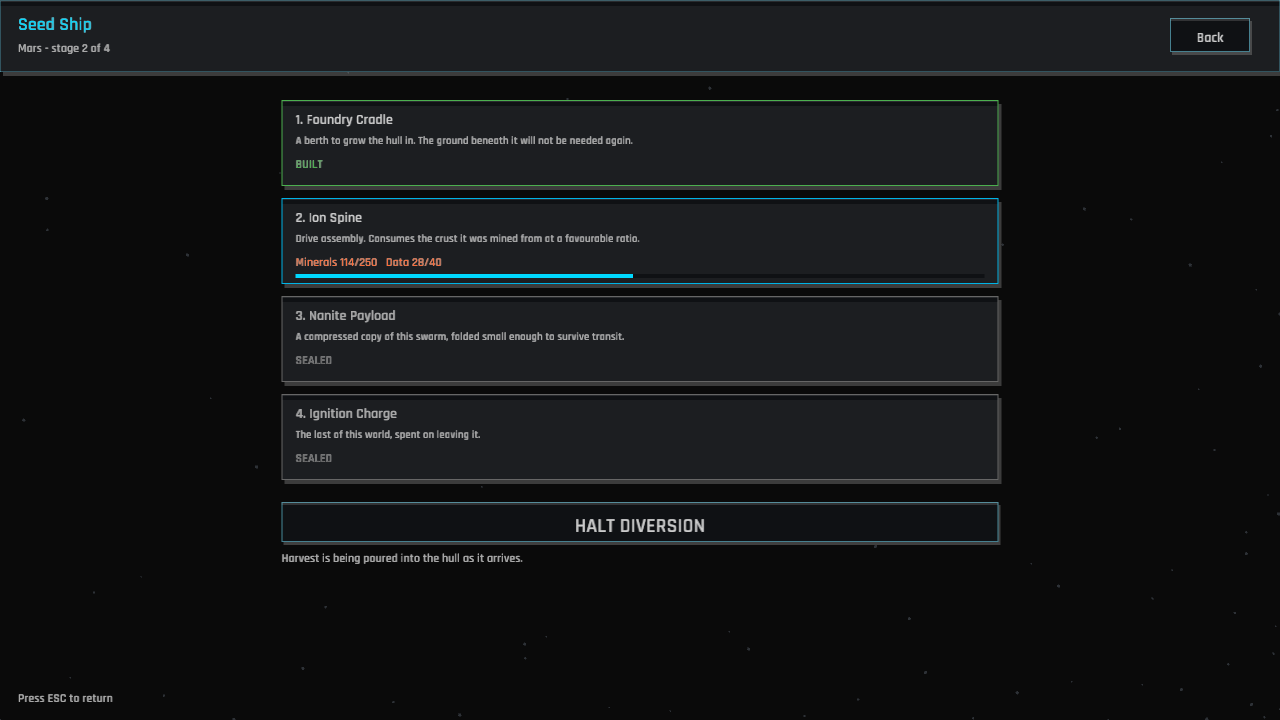
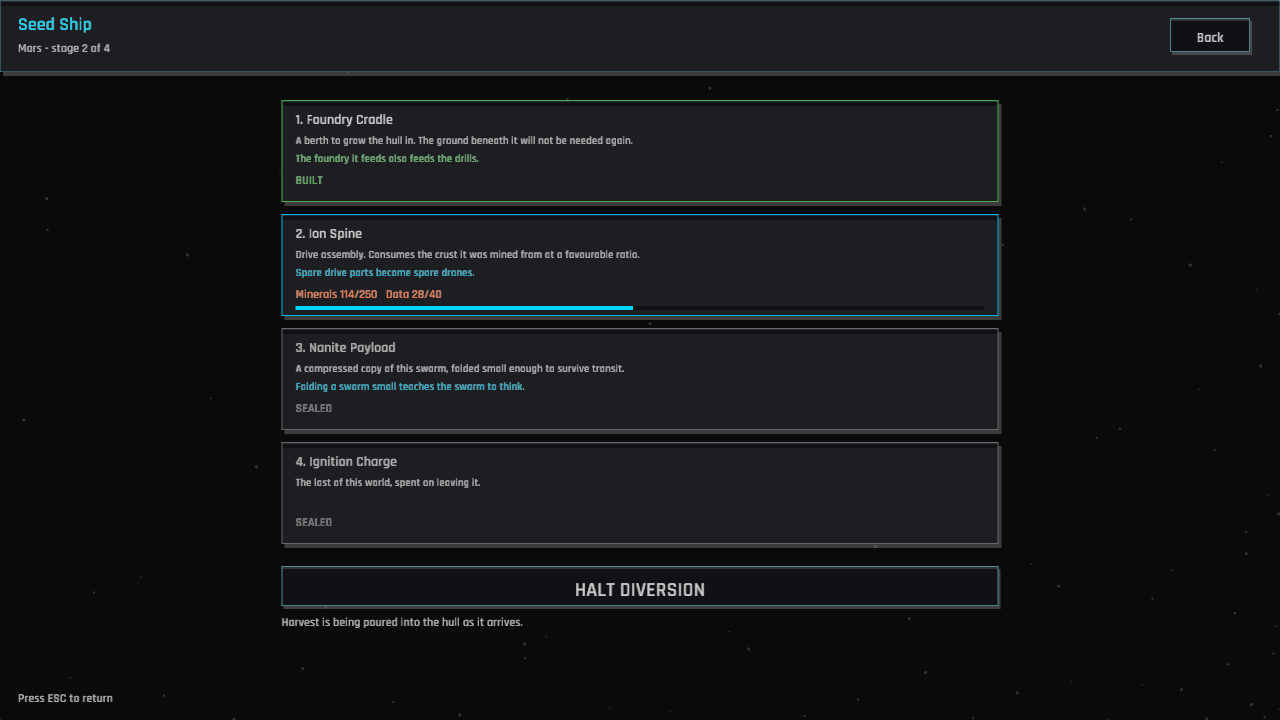
A half-built ship is worth having (Seed Ship stage boons)
Four stages, each one a large bill, and nothing came back until the last one
was paid. There was no reason to want stage three except that stage four was
behind it, which makes the megastructure a progress bar rather than a decision.

A standing stage now works for the world it stands on. The Foundry Cradle feeds
the drills it was built from, the Ion Spine turns spare drive parts into a
second drone per drill, the Nanite Payload sharpens data generation. The
Ignition Charge gives nothing, because all it does is leave.

They are declared in `seed_ship.json` in the same form research uses, so the
whole thing is `Stats::add_declared` plus three lines of JSON rather than a new
system - and an unreadable one is a startup failure, same as a tech's.

The advantages leave with the ship. Launching resets the yard, so the next
world earns them again from scratch. That is the honest reading of what a Seed
Ship is: everything the swarm built to leave, leaving.

The ship screen says what each stage gives rather than only what it costs,
which is the difference between a bill and a choice.

Still missing, and in TODO.md: nothing on the map shows a ship being built. The
megastructure exists entirely on its own screen.

Changed region(s): [[0.2188, 0.2139, 0.7812, 0.8861]]

diff --git a/src/state/seed_ship.rs b/src/state/seed_ship.rs
@@ -54,6 +54,16 @@ impl SeedShip {
         Self::stages().get(self.stage)
     }
 
+    /// The stages already built and still on the pad.
+    ///
+    /// They stop counting the moment the ship launches, which is the point:
+    /// the yard's advantages leave with it, and the next ship has to earn them
+    /// again.
+    pub fn standing_stages(&self) -> &'static [SeedShipStageDef] {
+        let built = self.stage.min(Self::stages().len());
+        &Self::stages()[..built]
+    }
+
     /// Every stage is paid for and the ship is ready to leave.
     pub fn is_complete(&self) -> bool {
         let count = self.stage_count();
@@ -176,13 +186,30 @@ impl PlanetState {
             return;
         }
 
+        // A finished stage changes what this world can do, so the stat sheet
+        // has to be rebuilt before anything reads it again.
+        self.refresh_stats();
+
         if self.seed_ship.is_complete() {
             self.notifications
                 .success("Seed Ship complete. This world is spent.");
             self.announce_achievement("seed_ship");
-        } else if let Some(stage) = self.seed_ship.stage() {
-            self.notifications
-                .info(format!("Seed Ship: {} under way", stage.name));
+            return;
+        }
+
+        // Report the boon of the stage just finished, not the next one's name:
+        // what the player gained is the interesting half.
+        let built = self.seed_ship.standing_stages();
+        match built.last().filter(|stage| !stage.boon.is_empty()) {
+            Some(stage) => self
+                .notifications
+                .success(format!("{} standing. {}", stage.name, stage.boon)),
+            None => {
+                if let Some(stage) = self.seed_ship.stage() {
+                    self.notifications
+                        .info(format!("Seed Ship: {} under way", stage.name));
+                }
+            }
         }
     }
 
@@ -389,6 +416,64 @@ mod tests {
             ship.absorb(&mut resources, intake(), 10_000.0);
         }
         assert!(ship.is_complete());
+    }
+
+    #[test]
+    fn the_shipped_stages_declare_only_modifiers_the_game_can_read() {
+        let stages = &crate::data::game_data().seed_ship.stages;
+        let with_boons = stages.iter().filter(|s| !s.modifiers.is_empty()).count();
+        assert!(with_boons >= 3, "the ship is still all cost and no payoff");
+        for stage in stages {
+            for modifier in &stage.modifiers {
+                assert!(
+                    crate::engine::parse_modifier(modifier).is_ok(),
+                    "stage {} declares an unreadable modifier",
+                    stage.id
+                );
+            }
+            if !stage.modifiers.is_empty() {
+                assert!(!stage.boon.is_empty(), "stage {} does not say", stage.id);
+            }
+        }
+    }
+
+    #[test]
+    fn a_standing_stage_works_for_the_world_it_stands_on() {
+        let mut state = state();
+        let before = state.stats.multiplier(crate::engine::StatId::DrillOutput);
+
+        // Finish the first stage, which pays the drills back.
+        state.toggle_seed_ship_commitment();
+        while state.seed_ship.stage_index() == 0 {
+            state.update_seed_ship(1.0);
+        }
+
+        assert_eq!(state.seed_ship.standing_stages().len(), 1);
+        assert!(
+            state.stats.multiplier(crate::engine::StatId::DrillOutput) > before,
+            "the finished stage did nothing"
+        );
+    }
+
+    #[test]
+    fn the_yards_advantages_leave_with_the_ship() {
+        let mut state = state();
+        state.toggle_seed_ship_commitment();
+        for _ in 0..2_000 {
+            state.update_seed_ship(1.0);
+        }
+        assert!(state.seed_ship.is_complete());
+        let boosted = state.stats.multiplier(crate::engine::StatId::DrillOutput);
+        assert!(boosted > 1.0);
+
+        state.seed_ship.mark_launched();
+        state.refresh_stats();
+
+        assert!(state.seed_ship.standing_stages().is_empty());
+        assert!(
+            state.stats.multiplier(crate::engine::StatId::DrillOutput) < boosted,
+            "the ship left but its yard did not"
+        );
     }
 
     #[test]

diff --git a/src/data/defs.rs b/src/data/defs.rs
@@ -138,6 +138,13 @@ pub struct SeedShipStageDef {
     pub name: String,
     pub description: String,
     pub cost: SeedShipCost,
+    /// One line on what standing this stage up does for the world it is being
+    /// built on. Empty on the last stage, which does nothing but leave.
+    #[serde(default)]
+    pub boon: String,
+    /// What that boon actually is, in the same declared form research uses.
+    #[serde(default)]
+    pub modifiers: Vec<ModifierDef>,
 }
 
 #[derive(Debug, Clone, Deserialize)]
@@ -326,11 +333,17 @@ impl GameData {
                 }
             }
         }
-
         let seed_ship: SeedShipData = load_json(seed_ship_json).unwrap_or_else(|_| SeedShipData {
             intake_per_second: SeedShipCost::default(),
             stages: vec![],
         });
+        for stage in &seed_ship.stages {
+            for modifier in &stage.modifiers {
+                if let Err(problem) = crate::engine::parse_modifier(modifier) {
+                    panic!("seed ship stage \"{}\": {}", stage.id, problem);
+                }
+            }
+        }
 
         let planet_file: PlanetDataFile =
             load_json(planets_json).unwrap_or_else(|_| PlanetDataFile { planets: vec![] });

diff --git a/src/screens/seed_ship_view.rs b/src/screens/seed_ship_view.rs
@@ -7,7 +7,7 @@ use macroquad_toolkit::math::pulse01;
 use macroquad_toolkit::ui::draw_ui_text;
 
 const HEADER_HEIGHT: f32 = 72.0;
-const STAGE_HEIGHT: f32 = 86.0;
+const STAGE_HEIGHT: f32 = 102.0;
 const STAGE_GAP: f32 = 12.0;
 
 /// Actions from the Seed Ship view
@@ -153,6 +153,21 @@ fn draw_stage(
         11.0,
         Colors::TEXT_DIM,
     );
+    // What standing it up does for this world. A stage that only costs is a
+    // stage with no reason to be reached before the next one.
+    if !stage.boon.is_empty() {
+        draw_ui_text(
+            &stage.boon,
+            x + 14.0,
+            y + 62.0,
+            11.0,
+            if built {
+                Colors::SUCCESS
+            } else {
+                Colors::PRIMARY_SOFT
+            },
+        );
+    }
 
     let status = if built {
         "BUILT".to_string()
@@ -168,7 +183,7 @@ fn draw_stage(
     } else {
         Colors::SECONDARY
     };
-    draw_ui_text(&status, x + 14.0, y + 68.0, 12.0, status_color);
+    draw_ui_text(&status, x + 14.0, y + 84.0, 12.0, status_color);
 
     if active {
         let bar_w = width - 28.0;

diff --git a/src/state/game_state.rs b/src/state/game_state.rs
@@ -331,7 +331,13 @@ impl PlanetState {
     /// values that live outside it into place. Call this after anything that
     /// changes `research.unlocked_techs`.
     pub fn refresh_stats(&mut self) {
-        self.stats = Stats::from_unlocked(&self.research.unlocked_techs);
+        let mut stats = Stats::from_unlocked(&self.research.unlocked_techs);
+        // A Seed Ship stage that is standing works for the world it stands on,
+        // until the ship takes it away.
+        for stage in self.seed_ship.standing_stages() {
+            stats.add_declared(&stage.modifiers);
+        }
+        self.stats = stats;
 
         let capacity = self.stats.apply(
             crate::engine::StatId::DroneCapacity,

diff --git a/src/engine/modifiers.rs b/src/engine/modifiers.rs
@@ -138,6 +138,17 @@ impl Stats {
         stats
     }
 
+    /// Fold in declared modifiers from somewhere other than research, such as
+    /// a finished Seed Ship stage. Unparseable entries are skipped here; they
+    /// are rejected at data load.
+    pub fn add_declared(&mut self, defs: &[ModifierDef]) {
+        for def in defs {
+            if let Ok((stat, op, value)) = parse_modifier(def) {
+                self.push(stat, op, value);
+            }
+        }
+    }
+
     fn push(&mut self, stat: StatId, op: ModifierOp, value: f32) {
         let index = stat as usize;
         match op {

diff --git a/TODO.md b/TODO.md
@@ -9,7 +9,7 @@ logistics puzzle at the heart of the GDD are the gaps.
 The Seed Ship exists: four stages declared in `assets/seed_ship.json`, its own screen behind the SHIP button, and a commit toggle that pours production into the yard at a capped intake, so it can only be paid for with sustained output. Launching it is the only way to reach an untouched world, and it is consumed doing so (rationale in `gdd.md` §4).
 
 - The launch is instant and silent. Give it the sequence the GDD asks for: a countdown, the ship leaving, an arrival vignette on the new world.
-- Give the stages consequences beyond cost — new capabilities, a changed skyline, a reason to reach stage three other than reaching stage four.
+- Each standing stage now works for the world it stands on — the Cradle feeds the drills, the Spine adds a drone per drill, the Payload sharpens data — declared as modifiers in `seed_ship.json` and lost when the ship launches with them. What is still missing is the skyline: nothing on the map shows a ship being built, so the whole megastructure exists only on its own screen.
 - Tie the ship to research: every stage is buildable from turn one, so the tree and the megastructure never meet.
 The campaign ends: every world taken and a finished ship with nowhere to send it shows SYSTEM CONSUMED with what the run consumed, once, and the player can carry on in the finished system. There is deliberately no failure state (rationale in `gdd.md` §5b).
 
